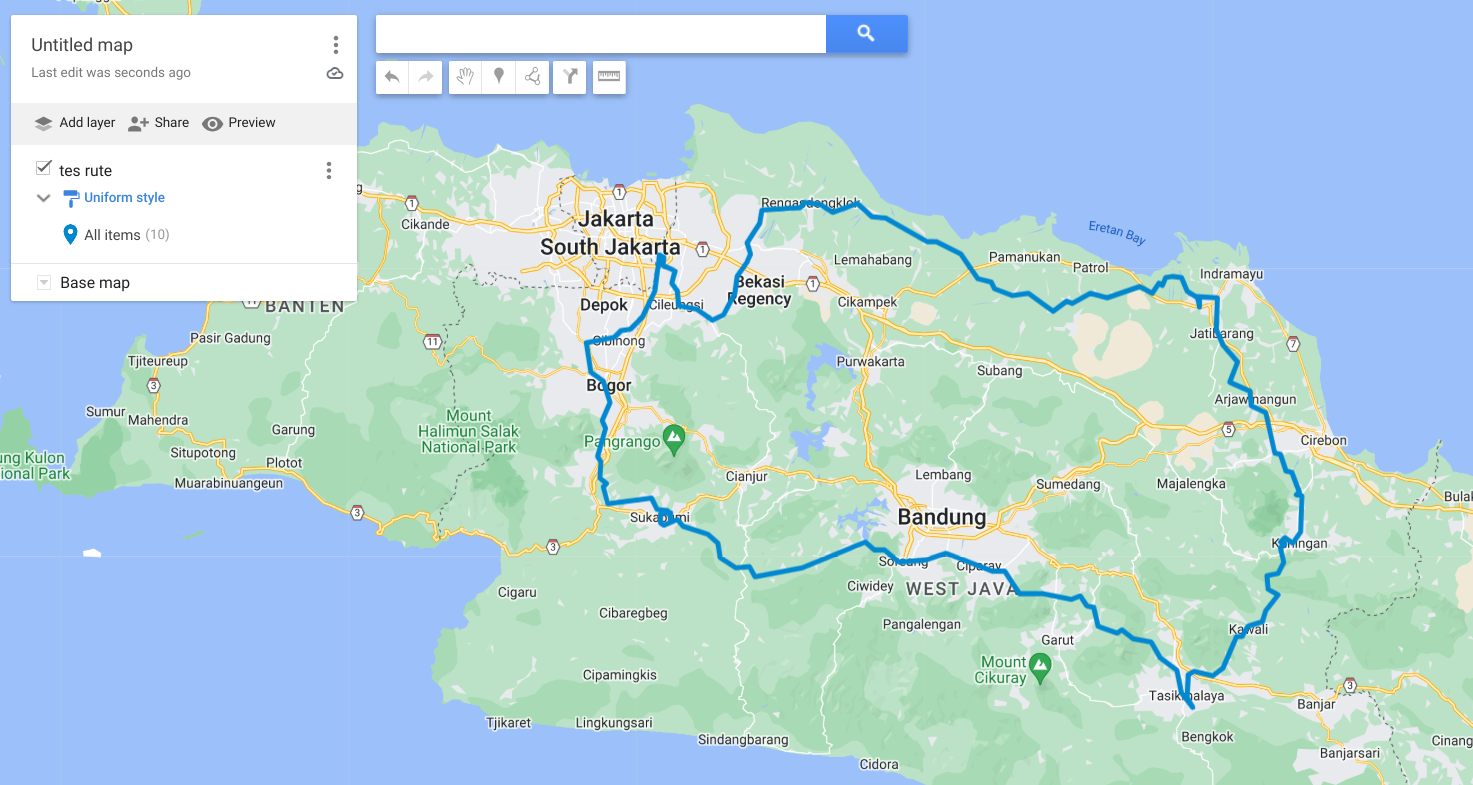
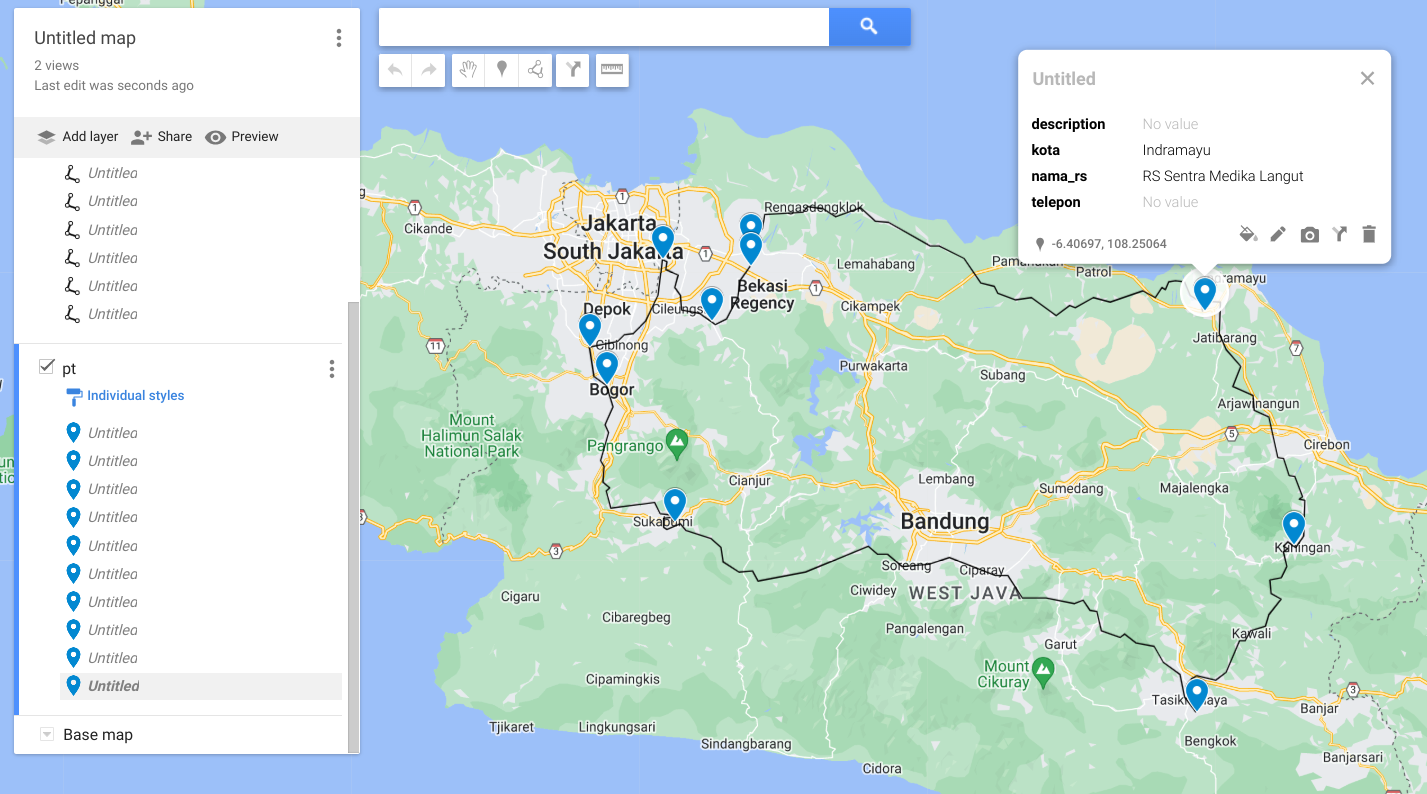
update baru

diff --git a/_posts/geo marketing/post 7/2025-02-07-kml-kmz.md b/_posts/geo marketing/post 7/2025-02-07-kml-kmz.md
@@ -263,11 +263,13 @@ Kita bisa *save* rute tersebut menjadi file `.kml` agar bisa dimasukkan
 ke dalam *Google Earth* atau *Google Mymaps*, caranya:
 
 ``` r
+titik = 
+  df |> 
+  st_as_sf(coords = c("long", "lat"), crs = "+proj=longlat +datum=WGS84")
+
+st_write(obj = titik, dsn = "tes rute.kml", driver = "libkml",layer="pt")
 st_write(obj = mytrip, dsn = "tes rute.kml", driver = "libkml")
 ```
-
-    Writing layer `tes rute' to data source `tes rute.kml' using driver `libkml'
-    Writing 10 features with 4 fields and geometry type Line String.
 
 Berikut adalah *screenshot* setelah saya *upload* ke *Google Mymaps*:
 
